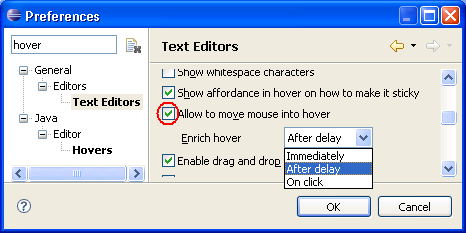
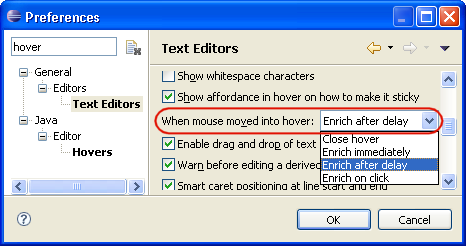
updated hovers

diff --git a/bundles/org.eclipse.platform.doc.user/whatsNew/platform_whatsnew.html b/bundles/org.eclipse.platform.doc.user/whatsNew/platform_whatsnew.html
@@ -359,16 +359,20 @@ document in the plug-in developer's guide.
     <td><p align="right"><b>Direct interaction with text
         hovers</b></p></td>
     <td> Are you tired of pressing <b>F2</b> to see
-      the full contents of a hover and to scroll down? If yes, then enable the
-      new <b>Allow to move into hovers</b> preference on the <b>Text Editors</b> preference
-      page:
-      <p> <img src="images/hovers-prefs.png" alt="Picture showing the text editor preferences"> </p>
-      <p> Once enabled, you can just move your mouse into hovers that support
+      the full contents of a hover and to scroll down?
+      <p> Now, you can just move your mouse into hovers that support
         this functionality and start scrolling.</p>
       <p> The Javadoc hovers in the Java editor now support links to other elements
         and have a toolbar at the bottom for navigating, moving to the Javadoc
       view and opening the corresponding declaration:</p>
-      <p> <img src="images/hovers-javadoc.png" alt="Picture showing the Javadoc hover with mouse cursor on link"> </p></td>
+      <p> <img src="images/hovers-javadoc.png" alt="Picture showing the Javadoc hover with mouse cursor on link"> </p>
+      <p>
+      The behavior of hovers when the mouse is moved can be configured on the <b>Text Editors</b> preference
+      page:
+      </p>
+      <p> <img src="images/hovers-prefs.png" alt="Picture showing the text editor preferences">
+      </p>
+      </td>
   </tr>
 
   <tr id="quickdiff-hovers">
